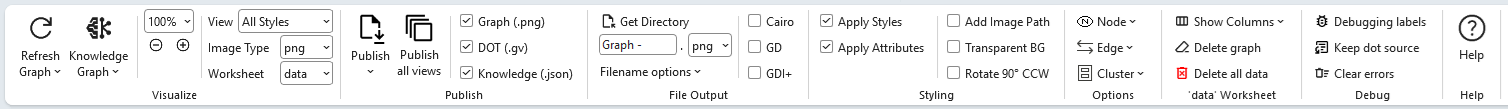
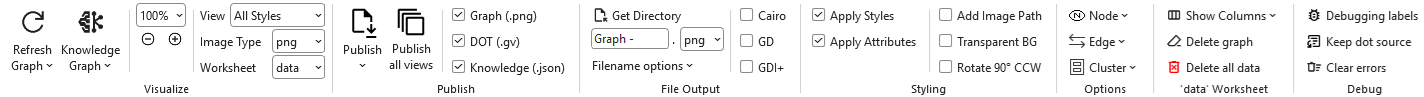
v11.0 Ribbon Tour blog post

Changed region(s): [[0.0, 0.0, 1.0, 1.0], [0.618, 0.5876, 0.9888, 0.7732]]

diff --git a/docs/blog/posts/ribbon-tour-v11.md b/docs/blog/posts/ribbon-tour-v11.md
@@ -1,11 +1,11 @@
 ---
 blogPost: true
 title: A Tour of the Redesigned Ribbon
-description: Version 11.0 splits the ribbon into a new Settings tab, a new Data tab, and a trimmed-down Graphviz tab. Here's a guided tour of what moved where.
-date: 2026-09-01
+description: Version 11.0 adds new Data and Settings tabs, and a streamlined Graphviz tab. Here's a quick guided tour of what moved where.
+date: 2026-09-08
 author: jjlong150
 tags: ['ribbon', 'how-to', 'v11.0']
-published: false
+published: true
 readingTime: true
 sidebar: false
 ---
@@ -31,13 +31,19 @@ The old, single Graphviz tab is now two tabs. The new Data tab owns everything r
 - **Options** - the Node, Edge, Graph, and new Cluster menus, with new tooltip-inclusion controls.
 - **'data' Worksheet** - the Show Columns menu is now organized into labeled sections, with a new Show Properties toggle.
 
-![Screen capture of the Data ribbon tab](../images/data-tab.png)
+|     |
+| :-: |
+| ![Screen capture of the Data ribbon tab](../images/data-tab.png) |
+|     |
 
 ## Graphviz tab, trimmed down
 
 With generation and publishing moved out, the Graphviz tab is now scoped to genuine Graphviz-only options — layout engine, splines, direction, output order, and per-layout settings. 
 
-![Screen capture of the Graphviz ribbon tab](../images/graphviz-tab.png)
+|     |
+| :-: |
+| ![Screen capture of the Graphviz ribbon tab](../images/graphviz-tab.png) |
+|     |
 
 Splines controls (Compound, Line, Spline) are back as live, selectable buttons after being disabled for a while due to space constraints, and a new Depth option joins the existing Breadth option for output order. 
 
@@ -47,6 +53,9 @@ If you're focused purely on Knowledge Graphs, a new toggle on the Launchpad tab 
 
 Cluster style names, written onto a cluster's opening and closing brace rows, can now be built from a configurable Naming Pattern instead of a fixed suffix. The old Suffix (Begin)/Suffix (End) fields are renamed Affix fields, and a new Naming Pattern field controls where that value is inserted, using `{name}` and `{affix}` placeholders. The default is `{name} {affix}`, but you can just as easily make the affix a prefix instead.
 
-![Screen capture of the Styles ribbon tab](../images/styles-tab.png)
+|     |
+| :-: |
+| ![Screen capture of the Styles ribbon tab](../images/styles-tab.png) |
+|     |
 
 That's the tour. See the [full changelog](/changelog/) for the complete list of ribbon changes, including the SVG tab's new on/off controls.

diff --git a/docs/blog/posts/choosing-a-renderer.md b/docs/blog/posts/choosing-a-renderer.md
@@ -1,7 +1,7 @@
 ---
 blogPost: true
 title: Choosing a Graphviz Renderer
-description: Cairo, GD, GDI+, and Quartz all draw your diagram — here's how the four render engines in v11.0 actually differ, and when to pick each one.
+description: Cairo, GD, GDI+, and Quartz all draw your diagram. Here's how the render engines in v11.0 actually differ, and when to pick each one.
 date: 2026-09-07
 author: jjlong150
 tags: ['rendering', 'tips', 'v11.0']
